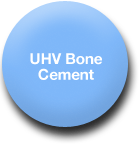
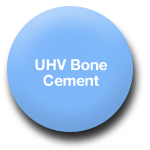
90% new buttons

Changed region(s): [[0.0, 0.0, 0.9714, 0.72], [0.2, 0.3467, 0.7429, 0.5867], [0.1429, 0.6667, 0.8286, 0.9867]]

diff --git a/Resources/views/content/tech_nav.js b/Resources/views/content/tech_nav.js
@@ -19,8 +19,8 @@ Views.content.tech_nav = function(view) {
 	var rf_energy_button = Ti.UI.createButton({
 		backgroundImage:"images/technology/small_tech_nav_rf_inactive.png",
 		backgroundSelectedImage:"images/technology/small_tech_nav_rf_active.png",
-		width:90,
-		height:100,
+		width:110,
+		height:110,
 		top:0,
 		id: 'rf_energy'
 	});
@@ -31,8 +31,8 @@ Views.content.tech_nav = function(view) {
 		backgroundImage:"images/technology/small_tech_nav_access_inactive.png",
 		backgroundSelectedImage:"images/technology/small_tech_nav_access_active.png",
 		left:0,
-		width:90,
-		height:100,
+		width:110,
+		height:110,
 		bottom:10,
 		id: 'access_and_navigation'
 	});
@@ -43,8 +43,8 @@ Views.content.tech_nav = function(view) {
 		backgroundImage:"images/technology/small_tech_nav_bone_inactive.png",
 		backgroundSelectedImage:"images/technology/small_tech_nav_bone_active.png",
 		right:0,
-		width:90,
-		height:100,
+		width:110,
+		height:110,
 		bottom:10,
 		id: "bone_cement"
 	});

diff --git a/Resources/views/content/technology.js b/Resources/views/content/technology.js
@@ -52,7 +52,7 @@ Views.content.technology = function(win) {
 		backgroundImage:"images/technology/large_nav/tech_nav_rf.png",
 		backgroundSelectedImage:"images/technology/large_nav/tech_nav_rf_pressed.png",
 		height:150,
-		width:140,
+		width:150,
 		top:0,
 		id: 'rf_energy'
 	});
@@ -61,7 +61,7 @@ Views.content.technology = function(win) {
 		backgroundImage:"images/technology/large_nav/tech_nav_access.png",
 		backgroundSelectedImage:"images/technology/large_nav/tech_nav_access_pressed.png",
 		height:150,
-		width:140,
+		width:150,
 		bottom:20,
 		left:10,
 		id: 'access_and_navigation'
@@ -71,7 +71,7 @@ Views.content.technology = function(win) {
 		backgroundImage:"images/technology/large_nav/tech_nav_bone.png",
 		backgroundSelectedImage:"images/technology/large_nav/tech_nav_bone_pressed.png",
 		height:150,
-		width:140,
+		width:150,
 		bottom:20,
 		right:10,
 		id: "bone_cement"
